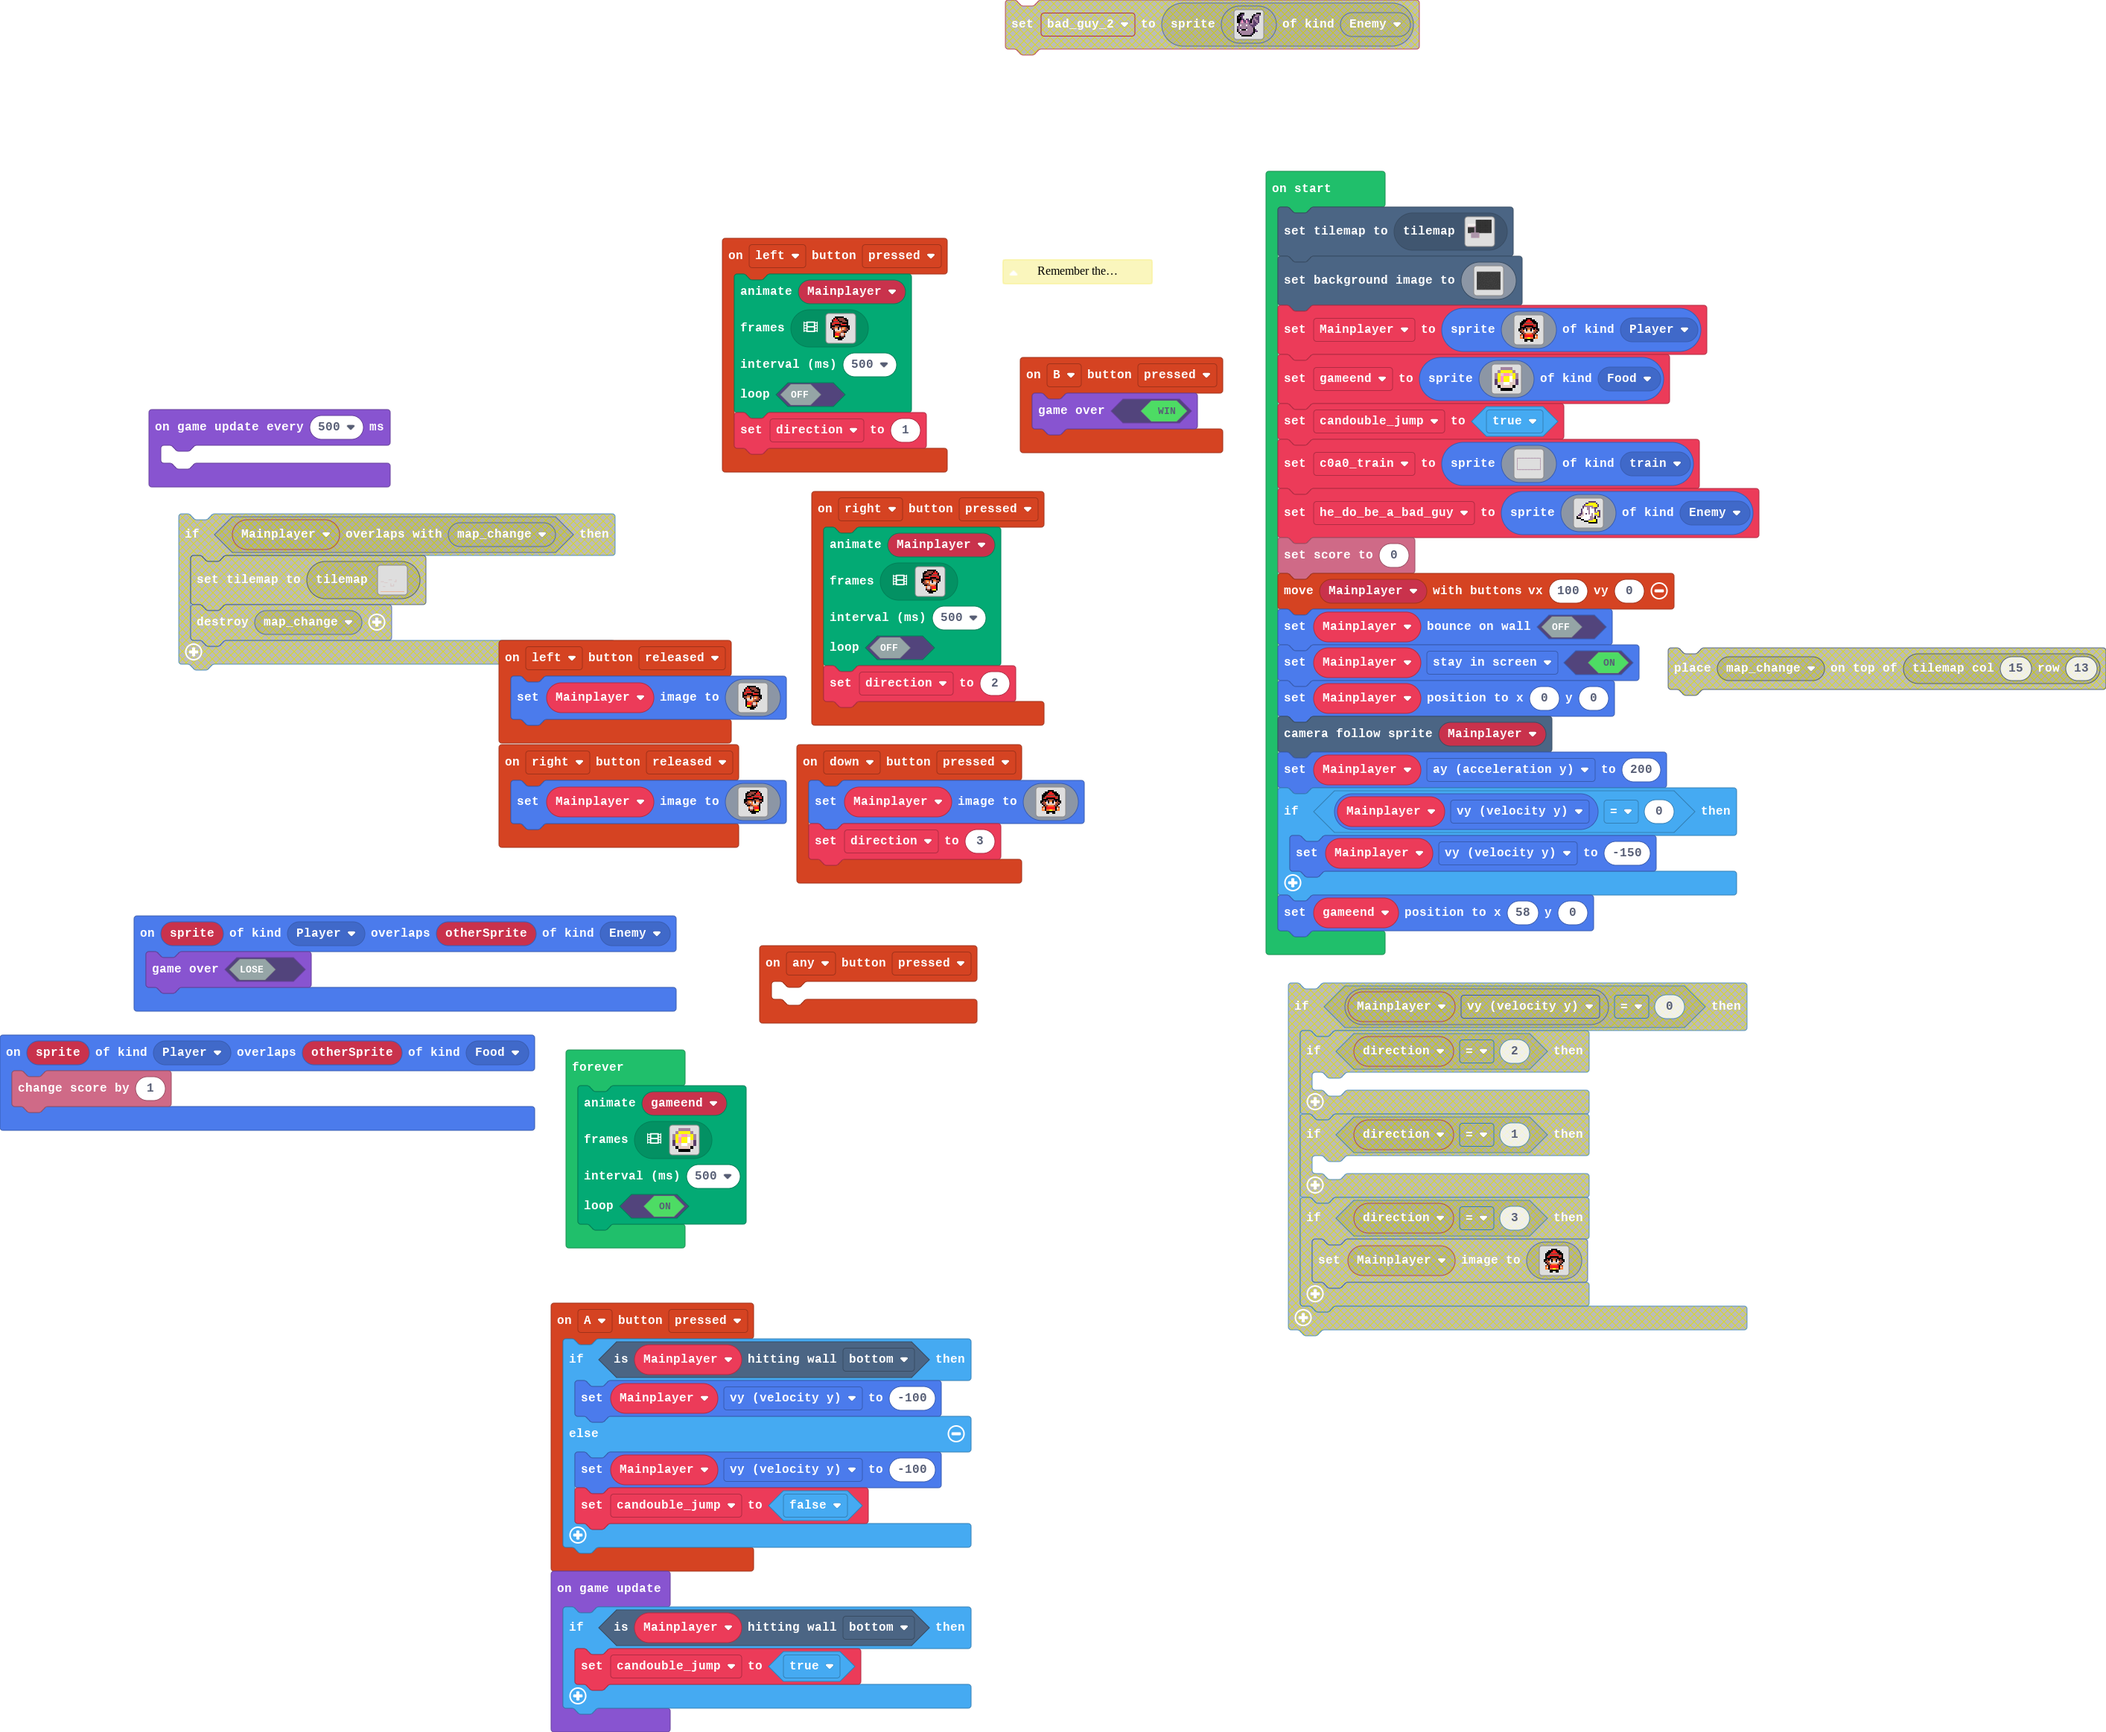
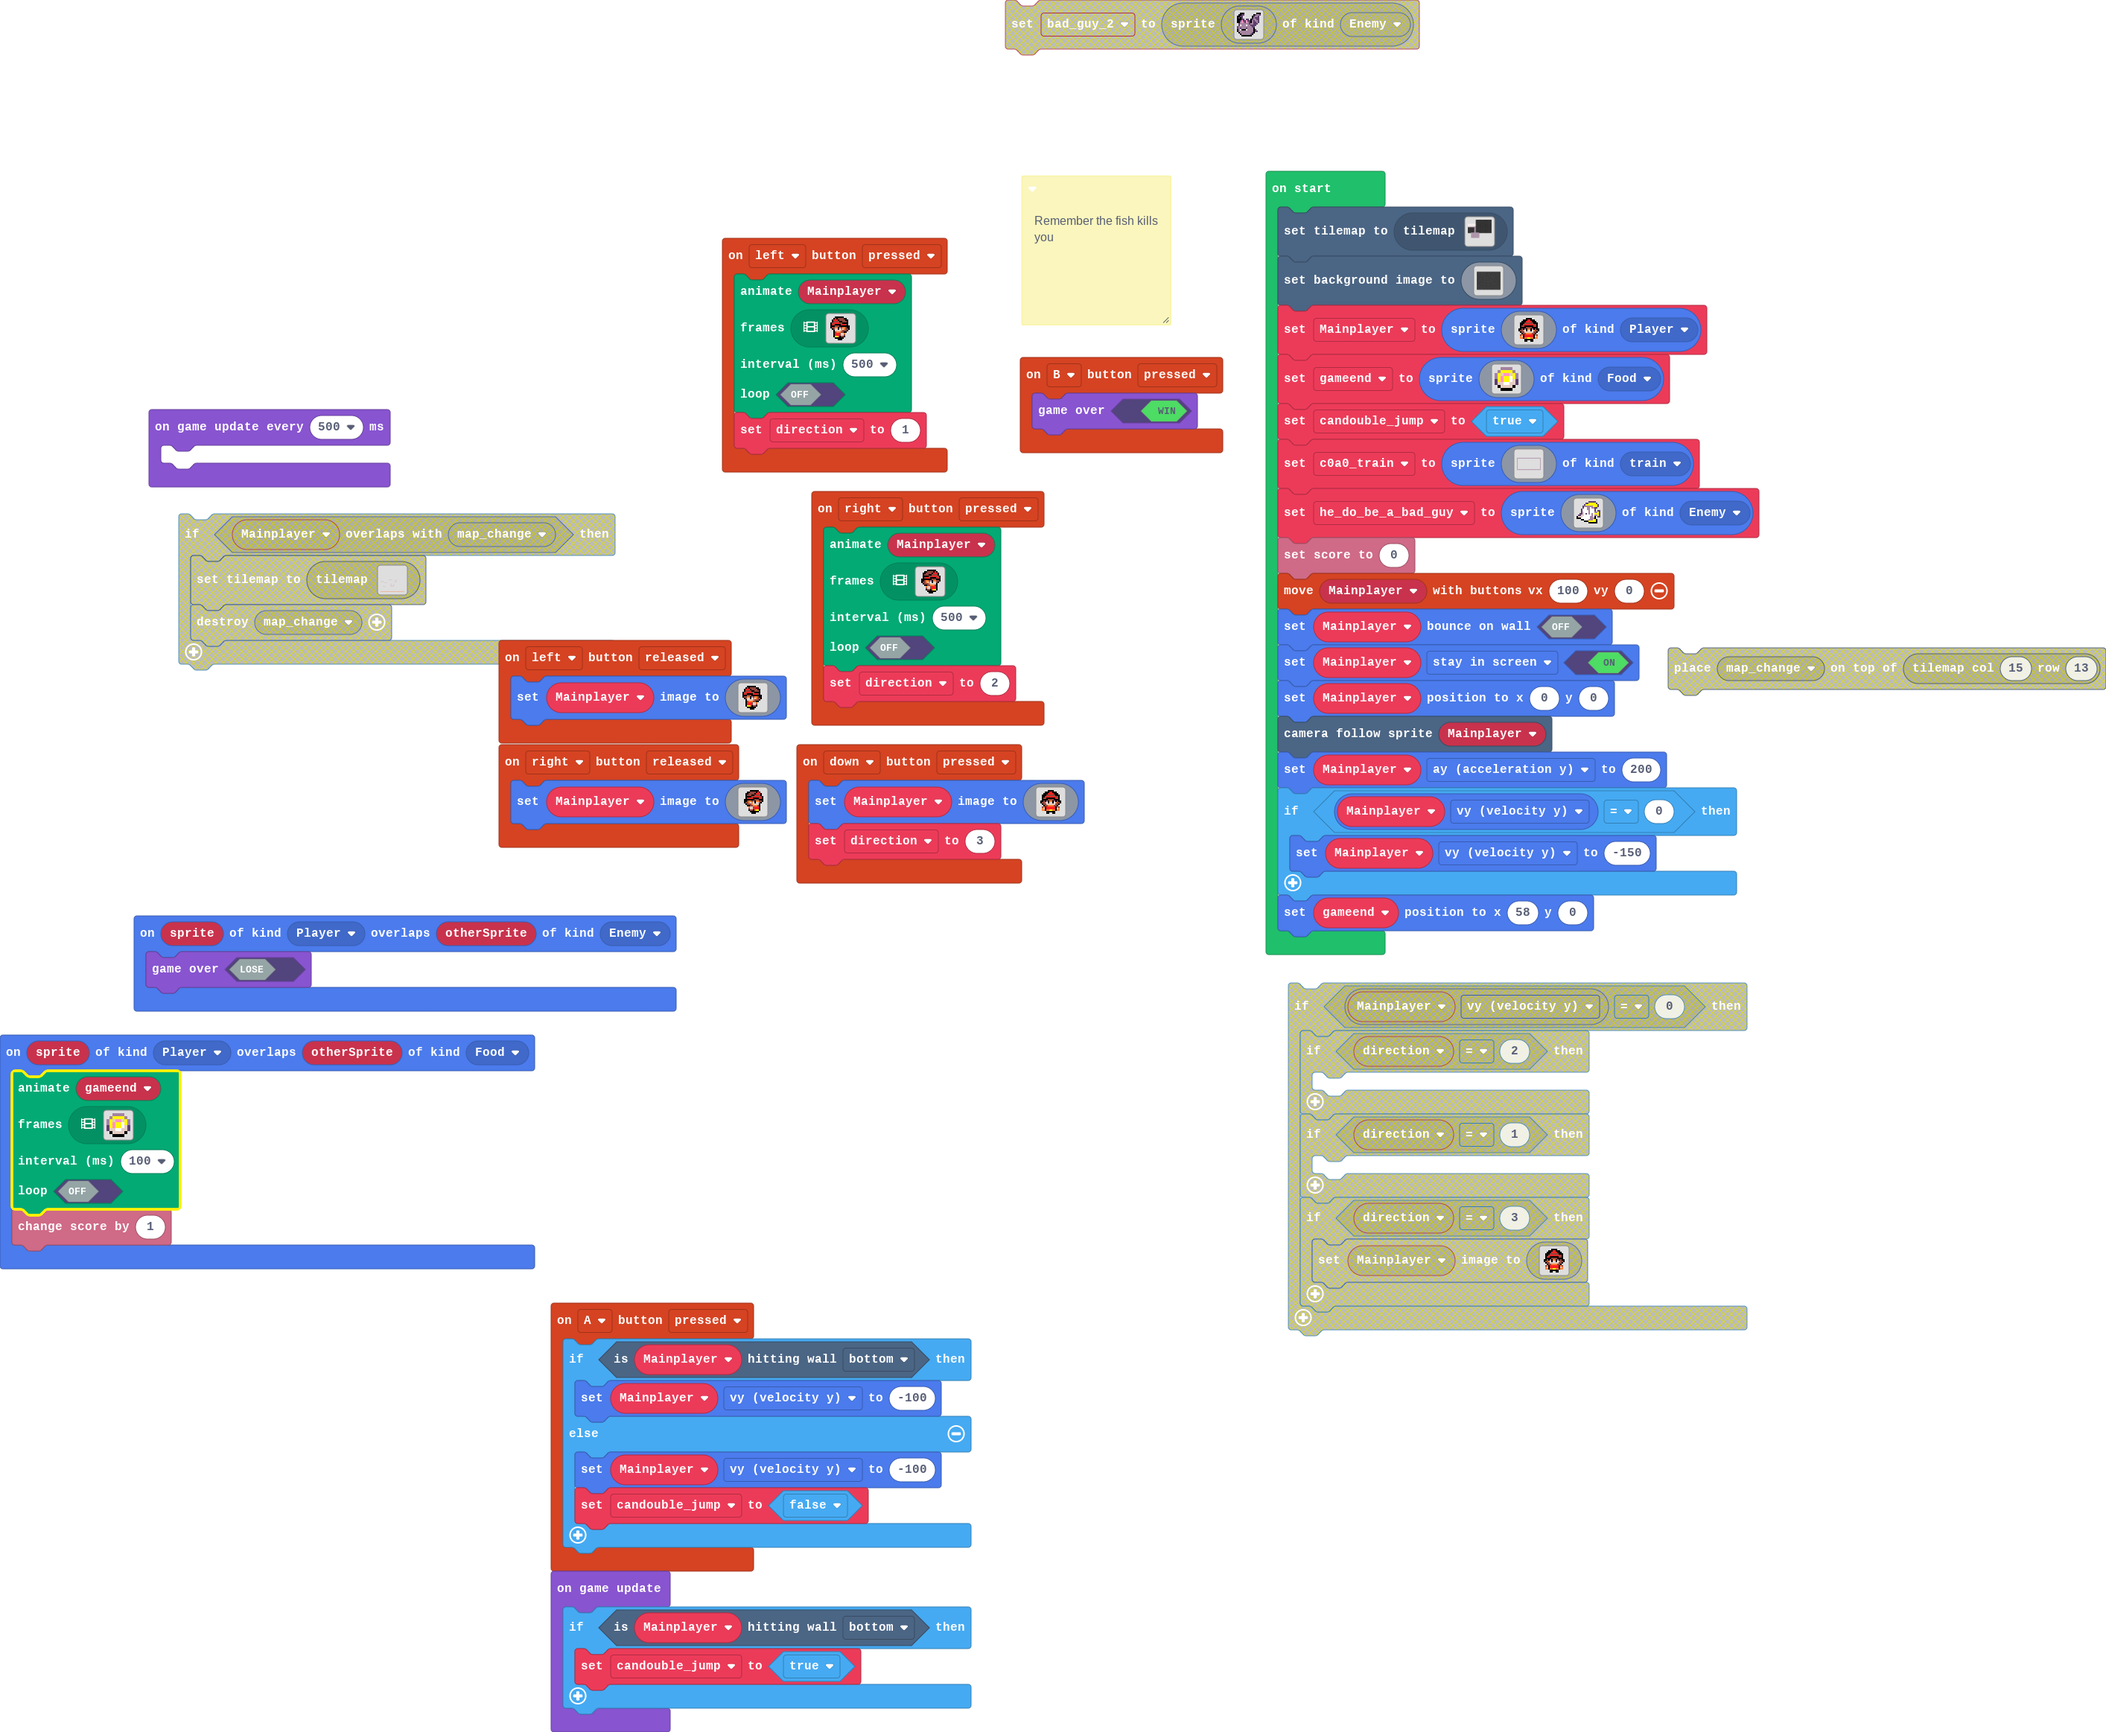
made the coin spin

Changed region(s): [[0.0, 0.5881, 0.3734, 0.7429], [0.4668, 0.0929, 0.5601, 0.1857], [0.3423, 0.5262, 0.4668, 0.5881]]

diff --git a/main.ts b/main.ts
@@ -8,9 +8,6 @@ namespace SpriteKind {
 controller.B.onEvent(ControllerButtonEvent.Pressed, function () {
     game.gameOver(true)
 })
-controller.anyButton.onEvent(ControllerButtonEvent.Pressed, function () {
-	
-})
 controller.A.onEvent(ControllerButtonEvent.Pressed, function () {
     if (Mainplayer.isHittingTile(CollisionDirection.Bottom)) {
         Mainplayer.vy = -100
@@ -235,6 +232,66 @@ controller.down.onEvent(ControllerButtonEvent.Pressed, function () {
     direction = 3
 })
 sprites.onOverlap(SpriteKind.Player, SpriteKind.Food, function (sprite, otherSprite) {
+    animation.runImageAnimation(
+    gameend,
+    [img`
+        . . b b b b . . 
+        . b 5 5 5 5 b . 
+        b 5 d 3 3 d 5 b 
+        b 5 3 5 5 1 5 b 
+        c 5 3 5 5 1 d c 
+        c d d 1 1 d d c 
+        . f d d d d f . 
+        . . f f f f . . 
+        `,img`
+        . . b b b . . . 
+        . b 5 5 5 b . . 
+        b 5 d 3 d 5 b . 
+        b 5 3 5 1 5 b . 
+        c 5 3 5 1 d c . 
+        c 5 d 1 d d c . 
+        . f d d d f . . 
+        . . f f f . . . 
+        `,img`
+        . . . b b . . . 
+        . . b 5 5 b . . 
+        . b 5 d 1 5 b . 
+        . b 5 3 1 5 b . 
+        . c 5 3 1 d c . 
+        . c 5 1 d d c . 
+        . . f d d f . . 
+        . . . f f . . . 
+        `,img`
+        . . . b b . . . 
+        . . b 5 5 b . . 
+        . . b 1 1 b . . 
+        . . b 5 5 b . . 
+        . . b d d b . . 
+        . . c d d c . . 
+        . . c 3 3 c . . 
+        . . . f f . . . 
+        `,img`
+        . . . b b . . . 
+        . . b 5 5 b . . 
+        . b 5 1 d 5 b . 
+        . b 5 1 3 5 b . 
+        . c d 1 3 5 c . 
+        . c d d 1 5 c . 
+        . . f d d f . . 
+        . . . f f . . . 
+        `,img`
+        . . . b b b . . 
+        . . b 5 5 5 b . 
+        . b 5 d 3 d 5 b 
+        . b 5 1 5 3 5 b 
+        . c d 1 5 3 5 c 
+        . c d d 1 d 5 c 
+        . . f d d d f . 
+        . . . f f f . . 
+        `],
+    100,
+    false
+    )
     info.changeScoreBy(1)
 })
 sprites.onOverlap(SpriteKind.Player, SpriteKind.Enemy, function (sprite, otherSprite) {
@@ -242,6 +299,7 @@ sprites.onOverlap(SpriteKind.Player, SpriteKind.Enemy, function (sprite, otherSp
 })
 let direction = 0
 let candouble_jump = false
+let gameend: Sprite = null
 let Mainplayer: Sprite = null
 tiles.setCurrentTilemap(tilemap`c0_a0`)
 scene.setBackgroundImage(img`
@@ -384,7 +442,7 @@ Mainplayer = sprites.create(img`
     . . . . . f f f f f f . . . . . 
     . . . . . f f . . f f . . . . . 
     `, SpriteKind.Player)
-let gameend = sprites.create(img`
+gameend = sprites.create(img`
     . . b b b b . . 
     . b 5 5 5 5 b . 
     b 5 d 3 3 d 5 b 
@@ -450,68 +508,6 @@ game.onUpdate(function () {
     if (Mainplayer.isHittingTile(CollisionDirection.Bottom)) {
         candouble_jump = true
     }
-})
-forever(function () {
-    animation.runImageAnimation(
-    gameend,
-    [img`
-        . . b b b b . . 
-        . b 5 5 5 5 b . 
-        b 5 d 3 3 d 5 b 
-        b 5 3 5 5 1 5 b 
-        c 5 3 5 5 1 d c 
-        c d d 1 1 d d c 
-        . f d d d d f . 
-        . . f f f f . . 
-        `,img`
-        . . b b b . . . 
-        . b 5 5 5 b . . 
-        b 5 d 3 d 5 b . 
-        b 5 3 5 1 5 b . 
-        c 5 3 5 1 d c . 
-        c 5 d 1 d d c . 
-        . f d d d f . . 
-        . . f f f . . . 
-        `,img`
-        . . . b b . . . 
-        . . b 5 5 b . . 
-        . b 5 d 1 5 b . 
-        . b 5 3 1 5 b . 
-        . c 5 3 1 d c . 
-        . c 5 1 d d c . 
-        . . f d d f . . 
-        . . . f f . . . 
-        `,img`
-        . . . b b . . . 
-        . . b 5 5 b . . 
-        . . b 1 1 b . . 
-        . . b 5 5 b . . 
-        . . b d d b . . 
-        . . c d d c . . 
-        . . c 3 3 c . . 
-        . . . f f . . . 
-        `,img`
-        . . . b b . . . 
-        . . b 5 5 b . . 
-        . b 5 1 d 5 b . 
-        . b 5 1 3 5 b . 
-        . c d 1 3 5 c . 
-        . c d d 1 5 c . 
-        . . f d d f . . 
-        . . . f f . . . 
-        `,img`
-        . . . b b b . . 
-        . . b 5 5 5 b . 
-        . b 5 d 3 d 5 b 
-        . b 5 1 5 3 5 b 
-        . c d 1 5 3 5 c 
-        . c d d 1 d 5 c 
-        . . f d d d f . 
-        . . . f f f . . 
-        `],
-    500,
-    true
-    )
 })
 game.onUpdateInterval(500, function () {
 	
